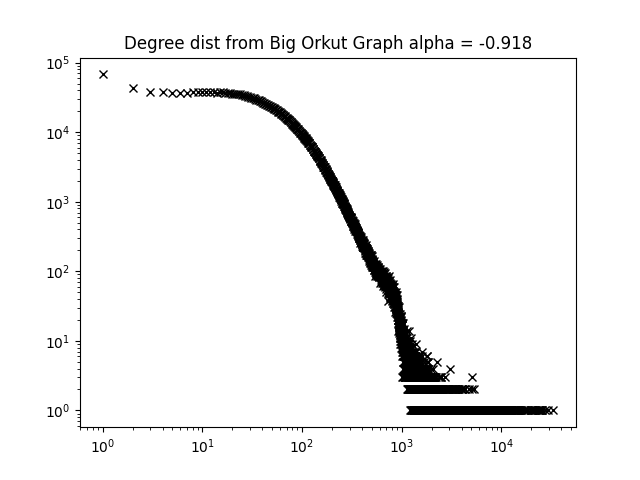
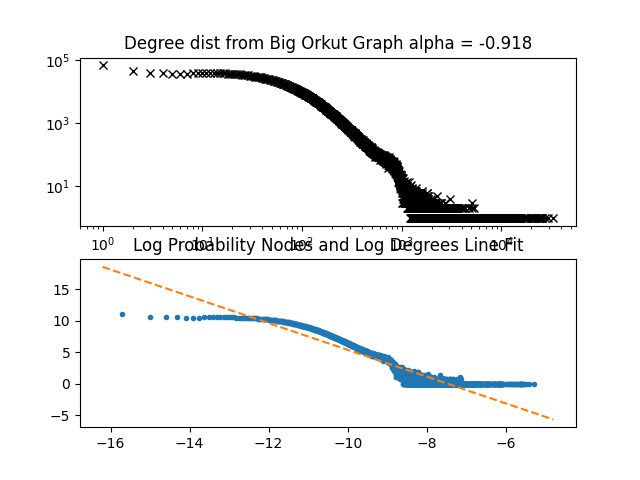
second commit

diff --git a/graph_analysis/power analysis.py b/graph_analysis/power analysis.py
@@ -23,11 +23,18 @@ def plot_power_graph(pickle_degrees,file_to_save,text):
         degrees = list(degee_dist.values())
         log_degrees = list(map(math.log,degrees))
         a = np.corrcoef(log_prob_nodes, log_degrees)[0][1]
+        z = np.polyfit(log_prob_nodes, log_degrees,1)
         #Power law is probability that a node has k neighbours is P(k) ~ k ^(-a) lnP(k) ~ -a*lnk
+        plt.subplot(2, 1, 1)
         plt.plot(num_nodes, degrees, 'kx')
         plt.xscale('log')
         plt.yscale('log')
         plt.title(text.format(a))
+        plt.subplot(2, 1, 2)
+        p = np.poly1d(z)
+        xp = np.linspace(min(log_prob_nodes)-0.5,max(log_prob_nodes)+0.5,100)
+        plt.plot(log_prob_nodes, log_degrees, '.', xp, p(xp), '--')
+        plt.title("Log Probability Nodes and Log Degrees Line Fit")
         plt.savefig(file_to_save)
 
 
